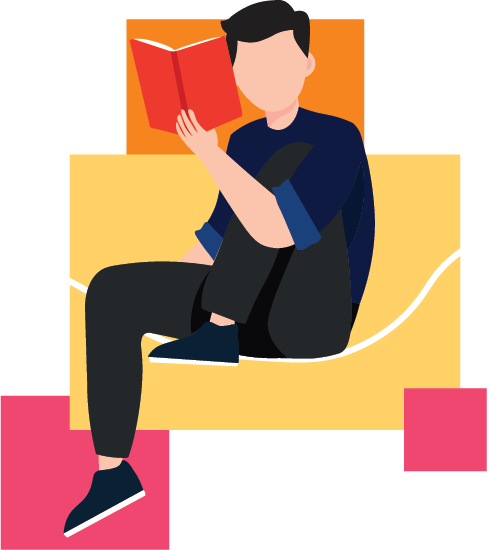
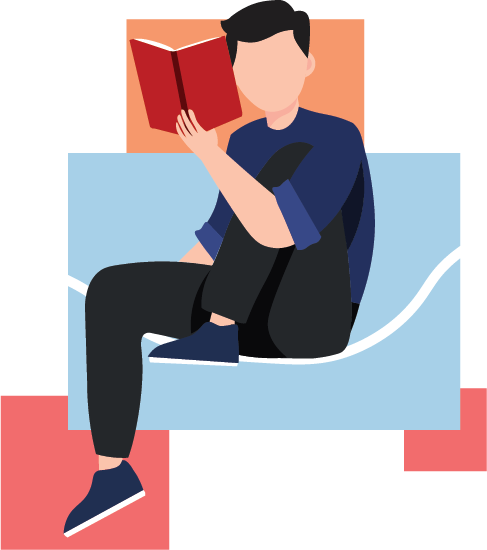
Added color themes, and redesign layout

diff --git a/code/src/components/nav/navbar.scss b/code/src/components/nav/navbar.scss
@@ -5,17 +5,18 @@ nav {
   align-items: center;
   z-index: 300;
   position: fixed;
-  top: 4vh;
+  top: 2vh;
   height: 10%;
-  width: 97%;
-  padding: 2% 0 1%;
-  background: transparent;
+  width: 100%;
+  padding: 1% 0 0;
+  background: rgba(238, 226, 220, 0.9);
   font-family: 'Poppins', sans-serif;
-  font-size:calc(10px + 0.3vw);
+  font-size: calc(10px + 0.4vw);
 }
 
 .home {
   position: relative;
+  top: 0.5vh;
   left: 2vw;
   height: 2.4vw;
   min-height: 20px;
@@ -23,14 +24,14 @@ nav {
   min-width: 25px;
   margin-left: 20%;
   padding: 20%;
-  border: 4px double #4d4d4e;
+  border: 5px double #08192c;
   border-radius: 50%;
-  background-color: white;
-  box-shadow: 10px 6px 6px rgba(0, 0, 0, 0.3);
+  background-color: transparent;
+  box-shadow: 10px 6px 6px rgba(2, 21, 64, 0.3);
   transition: 0.5s;
 
   &:hover {
-    border: 4px inset #4d4d4e;
+    border: 4px inset #08192c;
     box-shadow: unset;
     transform: scale(0.7);
   }
@@ -39,11 +40,12 @@ nav {
 .nav-links {
   justify-content: right;
   position: relative;
-  right: 1vw;
+  right: 4vw;
 
   >.active {
     position: relative;
     height: 5vh;
+    min-height: 20px;
     width: 40%;
     margin: 25px;
     padding: 10px 14px;
@@ -51,7 +53,7 @@ nav {
     background-image: url('../../assets/svg/activenav.svg');
     background-position: center;
     background-repeat: no-repeat;
-    background-size: 5vh;
+    background-size: 6vh;
     text-decoration: none; // To remove the underline for links
     font-weight: bold;
     color: transparent;
@@ -60,14 +62,14 @@ nav {
 
     &:hover {
       background-image: none;
-      color: #000;
+      color: #343434;
       transition: 1s ease;
 
       &::before {
         top: -5px;
         left: -10px;
-        border-top: 3px inset #4d4d4e;
-        border-left: 3px inset #4d4d4e;
+        border-top: 3px inset #08192c;
+        border-left: 3px inset #08192c;
       }
 
       &::after {
@@ -89,15 +91,15 @@ nav {
     &::before {
       top: -5px;
       left: -10px;
-      border-top: 3px double #4d4d4e;
-      border-left: 3px double #4d4d4e;
+      border-top: 3px double #08192c;
+      border-left: 3px double #08192c;
     }
 
     &::after {
       top: 5px;
       left: 10px;
-      border-bottom: 3px double #4d4d4e;
-      border-right: 3px double #4d4d4e;
+      border-bottom: 3px double #08192c;
+      border-right: 3px double #08192c;
     }
   }
 }
@@ -111,7 +113,7 @@ nav {
   background: transparent;
   text-decoration: none; // To remove the underline for links
   font-weight: normal;
-  color: #000;
+  color: #343434;
   transition: 0.5s;
 
   &::before,
@@ -128,19 +130,19 @@ nav {
   &::before {
     top: -2px;
     left: -5px;
-    border-top: 3px double #4d4d4e;
-    border-left: 3px double #4d4d4e;
+    border-top: 3px double #08192c;
+    border-left: 3px double #08192c;
   }
 
   &::after {
     top: 2px;
     left: 5px;
-    border-bottom: 3px double #4d4d4e;
-    border-right: 3px double #4d4d4e;
+    border-bottom: 3px double #08192c;
+    border-right: 3px double #08192c;
   }
 
   &:hover {
-    font-size: 14px;
+    font-size: calc(8px + 0.2vw);
     font-weight: 600;
     padding: 15px 18px;
 

diff --git a/code/src/index.scss b/code/src/index.scss
@@ -6,66 +6,78 @@ html {
   &::after {
     content: "";
     backface-visibility: hidden;
-    z-index: 21000;
     position: fixed;
     top: 0;
     height: 100%;
     width: 20px;
-    background: #fff4dd;
+    background: #EDC7B7;
   }
 
   &::after {
+    z-index: 20000;
     right: 0;
   }
 
   &::before {
+    z-index: 20000;
     left: 0;
   }
 }
 
 body {
   font-family: 'Poppins', sans-serif;
-  font-size: calc(10px + 0.3vw);
+  font-size: calc(10px + 0.5vw);
   font-weight: 300;
-
+  color: #1F1F1F;
   &::before,
   &::after {
     content: "";
     backface-visibility: hidden;
-    z-index: 20000;
     position: fixed;
     left: 0;
     width: 100%;
     height: 20px;
-    background: #fff4dd;
+    background: #EDC7B7;
   }
 
   &::before {
+    z-index: 20000;
     top: 0;
   }
 
   &::after {
+    z-index: 21000;
     bottom: 0;
   }
 }
 
 #root {
-  min-height: calc(100vh - 40px);
+  min-height: calc(110vh - 40px);
   position: relative;
-  background: white;
+  background: #EEE2DC;
   overflow: hidden;
 }
 
 main {
   display: flex;
   flex-direction: column;
-  margin: 20vh 15% 10vh;
+  justify-content: center;
+  margin: 15vh 15% 10vh;
   height: auto;
 
-  >header>h1 {
+  >header>div>h1 {
     font-family: 'Indie Flower', cursive;
-    font-size: calc(12px + 4vw);
+    font-size: 4em;
     font-weight: normal;
-    line-height: calc(12px + 3vw);
+    line-height: 0.8em;
   }
+}
+
+h2 {
+  font-weight: 600;
+  margin: 0;
+}
+
+.dot{
+  color: #dc7027;  
 }

diff --git a/code/src/routes/Home.tsx b/code/src/routes/Home.tsx
@@ -14,18 +14,20 @@ const Home: React.FC<IHomeProps> = (props: IHomeProps) => {
   return (
     <main>
       <header>
-        <h1 style={{ marginTop: '15%' }}>
+        <div><h1 style={{ marginTop: '15%' }}>
           <AnimatedLetters
             letterClass={letterClass}
             strArray={nameArray}
             idx={1}
           />
           <br />
-          <span style={{ fontSize: 'calc(12px + 2vw)' }}><b>Hyde</b> here!</span>
+          <span style={{ fontSize: '0.6em' }}><b>Hyde</b> here!</span>
         </h1>
+        </div>
         <FigureComponent url={CharProfile} alt={'An illustration of my inner mind'} cssClass="char-profile" />
       </header>
       <section>
+        <h2>About me<span class='dot'>.</span></h2>
         <p dangerouslySetInnerHTML={{ __html: paragraph[0] }}>
         </p>
       </section>

diff --git a/code/src/components/nav/NavBar.tsx b/code/src/components/nav/NavBar.tsx
@@ -13,10 +13,10 @@ const NavBar: React.FC = () => {
         <div className="nav-links">
           <NavLink to="/" end
             className={({ isActive }) => isActive ? "active" : "pending"}>
-            Home</NavLink>
+            <span>Home</span></NavLink>
           <NavLink to="/project"
             className={({ isActive }) => isActive ? "active" : "pending"}>
-            Project</NavLink>
+            <span>Project</span></NavLink>
           <NavLink to="/experience"
             className={({ isActive }) => isActive ? "active" : "pending"}>
             Experience</NavLink>

diff --git a/code/src/routes/scss/home.scss b/code/src/routes/scss/home.scss
@@ -1,7 +1,8 @@
 header {
     display: flex;
     flex-direction: row;
-    justify-content: flex-end;
+    justify-content: flex-start;
+    align-items: center;
     position: relative;
     height: auto;
     width: 100%;
@@ -11,6 +12,7 @@ header {
         right: 1vw;
         height: auto;
         width: calc(100px + 25vw);
+        margin-left: auto;
     }
 }
 
@@ -18,7 +20,8 @@ section {
     display: flex;
     flex-direction: column;
     position: relative;
-    padding: 0 3vw;
+    top: 8vh;
+    right: auto;
     height: auto;
-    width: 100%;
+    max-width: 80%;
 }

diff --git a/code/src/components/animation/animation.scss b/code/src/components/animation/animation.scss
@@ -1,7 +1,8 @@
 .waviy {
   position: relative;
   display: inline-block;
-  animation: waviy 1s infinite;
+  color: #dc7027;
+  animation: waviy 1.4s;
 }
 
 @for $i from 1 through 6 {
@@ -11,7 +12,7 @@
 }
 
 .waviy_1:first-child {
-  animation: waviy_1 1s infinite;
+  animation: waviy_1 1.4s;
 }
 
 @keyframes waviy {
